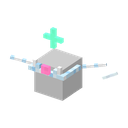
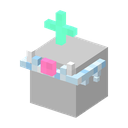
Ice tiara rework, German labels, wider sidebar, Bedrock lang preference, autotest steps
Claude-Session: https://claude.ai/code/session_01S4occ44uVa8LAyj1D5iJdo

Changed region(s): [[0.0625, 0.0625, 0.9375, 0.9375]]

diff --git a/tools/generate_starter_pack.py b/tools/generate_starter_pack.py
@@ -227,19 +227,20 @@ def build():
     m.box(b, (-4, 31, -5), (1, 2, 1), solid('#ffffff'), inflate=-0.1)
     m.box(b, (3, 31, -5), (1, 2, 1), solid('#ffffff'), inflate=-0.1)
     m.box(b, (-1, 30.5, -5.6), (2, 2, 1), faces(solid('#ff5fa8'), front=bordered('#ff7cbc', '#d63f86')), emissive=solid('#ff7cbc', alpha=120))
-    ribbon = lambda f_, x, y, w, h, r: (rgb('#ffffff') + (255,)) if (x + y) % 3 else (rgb('#bfe6ff') + (255,))
-    m.box(b, (5, 30, 2), (6, 1, 1), ribbon, rotation=[0, -25, -12], pivot=[5, 30.5, 2.5], inflate=-0.15)
-    m.box(b, (-11, 30, -3), (6, 1, 1), ribbon, rotation=[0, -20, 10], pivot=[-5, 30.5, -2.5], inflate=-0.15)
-    m.box(b, (10, 28, 3), (4, 1, 1), solid('#d8f0ff', alpha=170), rotation=[0, -30, -25], pivot=[10, 28.5, 3.5], inflate=-0.2)
-    s = m.bone('sparkle', [0, 38, -2], parent='tiara')
+    icicle = solid('#d8f0ff', noise=0.05)
+    for x in (-5, 4):
+        m.box(b, (x, 29, -3), (1, 1, 1), icicle, inflate=-0.05)
+        m.box(b, (x, 29, 0), (1, 1, 1), icicle, inflate=-0.05)
+        m.box(b, (x, 28, 0), (1, 1, 1), icicle, inflate=-0.2)
+    s = m.bone('sparkle', [0, 36, -2], parent='tiara')
     glowmint = solid('#6dffc8', noise=0.04)
-    m.box(s, (-0.5, 36, -2.5), (1, 5, 1), glowmint, emissive=glowmint)
-    m.box(s, (-2.5, 38, -2.5), (5, 1, 1), glowmint, emissive=glowmint)
+    m.box(s, (-0.5, 34, -2.5), (1, 5, 1), glowmint, emissive=glowmint)
+    m.box(s, (-2.5, 36, -2.5), (5, 1, 1), glowmint, emissive=glowmint)
     cos.append(('ice_tiara', meta('ice_tiara', 'Eis-Tiara', 'Ice Tiara', 'crown',
                 desc_de='Kühle Tiara mit pinkem Edelstein und schwebendem Funkelkreuz.', desc_en='A frosty tiara with a pink gem and a floating sparkle.',
                 animations=['animation.btb.ice_tiara.sparkle'],
-                glow={'color': '#7CFFD4', 'size': 4, 'intensity': 0.35, 'offset': [0, 6.5, -2], 'flicker': False},
-                particles={'type': 'minecraft:end_rod', 'rate': 0.25, 'offset': [0, 7, -2], 'spread': 3},
+                glow={'color': '#7CFFD4', 'size': 4, 'intensity': 0.35, 'offset': [0, 4.5, -2], 'flicker': False},
+                particles={'type': 'minecraft:end_rod', 'rate': 0.25, 'offset': [0, 5, -2], 'spread': 3},
                 tags=['krone', 'eis', 'tiara']),
                 m, {'animation.btb.ice_tiara.sparkle': anim(sparkle={'rotation': [0, 'q.anim_time * 90', 0], 'position': [0, 'math.sin(q.anim_time * 120) * 0.6', 0]})}, HEAD))
 

diff --git a/src/client/java/de/behindtheblocks/skinstudio/client/gui/WardrobeScreen.java b/src/client/java/de/behindtheblocks/skinstudio/client/gui/WardrobeScreen.java
@@ -303,7 +303,7 @@ public class WardrobeScreen extends Screen {
 
 		sideX = m;
 		sideY = top;
-		sideW = Math.max(100, Math.min(130, width / 6));
+		sideW = Math.max(112, Math.min(150, width / 5));
 		sideH = bottom - top;
 		int stageX = sideX + sideW + 6;
 		int stageW = Math.max(140, Math.min(230, (int) (width * 0.30)));
@@ -327,7 +327,7 @@ public class WardrobeScreen extends Screen {
 		if (toast != null && System.currentTimeMillis() < toastUntil) {
 			String msg = ui.ellipsize(toast, stageW + rightW);
 			int tw = font.width(msg) + 20;
-			int tx = Math.max(m, stageX + (stageW - tw) / 2), ty = bottom - 22;
+			int tx = Math.max(m, stageX + (stageW - tw) / 2), ty = top + 24;
 			ui.rounded(tx, ty, tw, 18, 9, toastError ? (t.danger & 0xFFFFFF) | 0xE0000000 : t.dark ? 0xEE303644 : 0xF4FFFFFF);
 			ui.text(msg, tx + 10, ty + 5, toastError ? 0xFFFFFFFF : t.text);
 		}
@@ -708,7 +708,8 @@ public class WardrobeScreen extends Screen {
 				Tr.t(fav ? "btb.ui.favorite.remove" : "btb.ui.favorite.add"));
 		py += 11;
 		LoadedPack pack = CosmeticLibrary.get().packs().stream().filter(p -> p.id().equals(a.packId)).findFirst().orElse(null);
-		String meta = categoryLabel(d.category()) + " · " + typeLabel(d.type) + " · " + attachmentLabel(d.attachment) + (pack != null ? " · " + packName(pack) : "");
+		String att = attachmentLabel(d.attachment);
+		String meta = categoryLabel(d.category()) + " · " + typeLabel(d.type) + (att.equals(categoryLabel(d.category())) ? "" : " · " + att) + (pack != null ? " · " + packName(pack) : "");
 		ui.text(ui.ellipsize(meta, w - 16), px, py, t.textMuted);
 		py += 11;
 		String desc = d.description(lang());

diff --git a/src/client/java/de/behindtheblocks/skinstudio/client/AutoTest.java b/src/client/java/de/behindtheblocks/skinstudio/client/AutoTest.java
@@ -159,6 +159,16 @@ final class AutoTest {
 			}
 			case "import" -> mc.gui.setScreen(new de.behindtheblocks.skinstudio.client.gui.ImportScreen(null,
 					java.util.Arrays.stream(a, 1, a.length).map(java.nio.file.Path::of).toList()));
+			case "set" -> {
+				var st = de.behindtheblocks.skinstudio.client.data.ClientSettings.get();
+				boolean v = Boolean.parseBoolean(a[2]);
+				switch (a[1]) {
+					case "layers3d" -> st.skinLayers3d = v;
+					case "particles" -> st.particles = v;
+					default -> LOG.warn("Unbekannte Einstellung {}", a[1]);
+				}
+			}
+			case "skin" -> de.behindtheblocks.skinstudio.client.data.Wardrobe.get().setSkin(a.length > 1 ? a[1] : "");
 			case "shot" -> {
 				Screenshot.grab(mc.gameDirectory, a[1] + ".png", mc.gameRenderer.mainRenderTarget(), 1, c -> LOG.info("Screenshot {}", a[1]));
 			}

diff --git a/src/main/java/de/behindtheblocks/skinstudio/bedrock/BedrockImporter.java b/src/main/java/de/behindtheblocks/skinstudio/bedrock/BedrockImporter.java
@@ -709,7 +709,9 @@ public final class BedrockImporter {
 	public static Map<String, String> readLang(ArchiveFiles f) {
 		Map<String, String> out = new HashMap<>();
 		List<String> langs = f.find(p -> p.toLowerCase(Locale.ROOT).endsWith(".lang"));
-		langs.sort((a, b) -> Boolean.compare(b.toLowerCase(Locale.ROOT).contains("de_de"), a.toLowerCase(Locale.ROOT).contains("de_de")));
+		// prefer the language the game runs in, then English
+		String preferred = Tr.german() ? "de_de" : "en_us";
+		langs.sort((a, b) -> Boolean.compare(b.toLowerCase(Locale.ROOT).contains(preferred), a.toLowerCase(Locale.ROOT).contains(preferred)));
 		for (String p : langs) {
 			for (String line : new String(f.get(p), StandardCharsets.UTF_8).split("\\R")) {
 				int eq = line.indexOf('=');

diff --git a/src/client/java/de/behindtheblocks/skinstudio/client/BtbSkinStudioClient.java b/src/client/java/de/behindtheblocks/skinstudio/client/BtbSkinStudioClient.java
@@ -73,6 +73,9 @@ public final class BtbSkinStudioClient implements ClientModInitializer {
 				// follow language changes in the options; messages and labels switch immediately
 				lastLanguage = lang;
 				de.behindtheblocks.skinstudio.util.Tr.setLanguage(lang);
+				if (CosmeticLibrary.get().revision() > 0) {
+					de.behindtheblocks.skinstudio.client.skin.SkinLibrary.get().reload();
+				}
 			}
 		});
 	}
